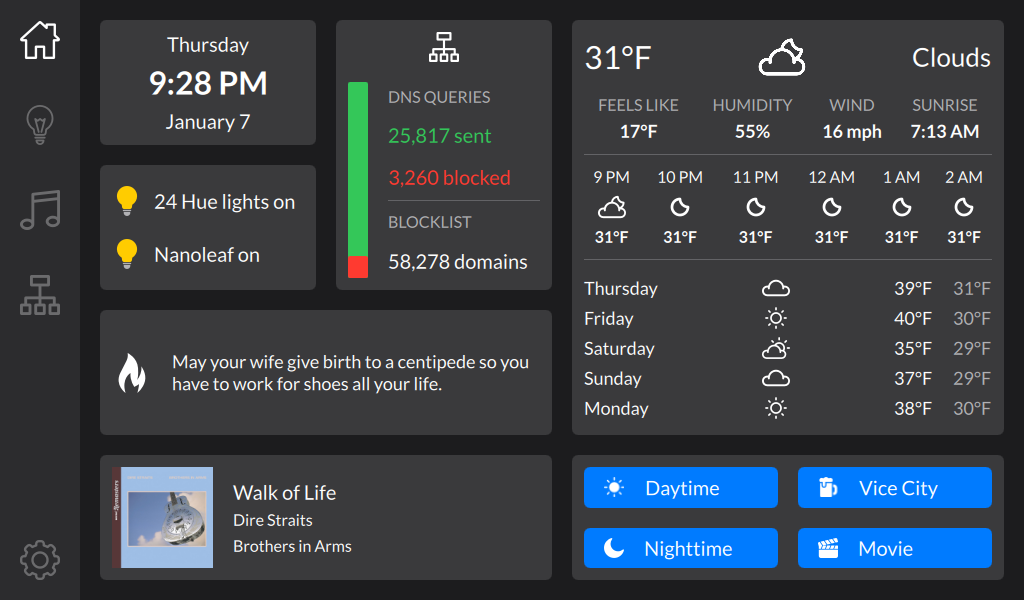
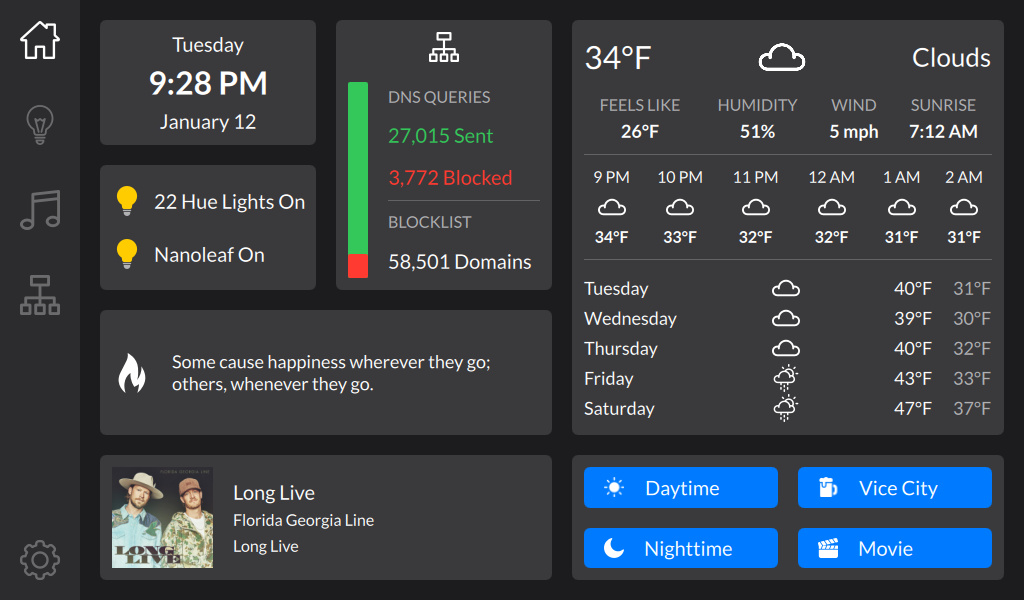
Consistent title casing in the lights and network summary tiles.

diff --git a/qml/TileNetworkSummary.qml b/qml/TileNetworkSummary.qml
@@ -64,14 +64,14 @@ Tile {
             id: sentQueries
             color: VCColor.green
             font.pixelSize: VCFont.body
-            text: qsTr( VCHub.formatInt( VCHub.piHole.totalQueries - VCHub.piHole.blockedQueries ) + " sent" )
+            text: qsTr( VCHub.formatInt( VCHub.piHole.totalQueries - VCHub.piHole.blockedQueries ) + " Sent" )
         }
 
         Text {
             id: blockedQueries
             color: VCColor.red
             font.pixelSize: VCFont.body
-            text: qsTr( VCHub.formatInt( VCHub.piHole.blockedQueries ) + " blocked" )
+            text: qsTr( VCHub.formatInt( VCHub.piHole.blockedQueries ) + " Blocked" )
         }
 
         Rectangle {
@@ -93,7 +93,7 @@ Tile {
             id: blockedDomains
             color: VCColor.white
             font.pixelSize: VCFont.body
-            text: qsTr( VCHub.formatInt( VCHub.piHole.blockedDomains ) + " domains" )
+            text: qsTr( VCHub.formatInt( VCHub.piHole.blockedDomains ) + " Domains" )
         }
     }
 }

diff --git a/qml/TileLightsSummary.qml b/qml/TileLightsSummary.qml
@@ -30,7 +30,7 @@ Tile {
             verticalAlignment: Text.AlignVCenter
             color: VCColor.white
             font.pixelSize: VCFont.body
-            text: qsTr( VCHub.hue.onDevicesCount + " Hue lights on" )
+            text: qsTr( VCHub.hue.onDevicesCount + " Hue Lights On" )
         }
 
         Image {
@@ -49,7 +49,7 @@ Tile {
             verticalAlignment: Text.AlignVCenter
             color: VCColor.white
             font.pixelSize: VCFont.body
-            text: qsTr( "Nanoleaf " + ( VCHub.nanoleaf.isOn ? "on" : "off" ) )
+            text: qsTr( "Nanoleaf " + ( VCHub.nanoleaf.isOn ? "On" : "Off" ) )
         }
     }
 }
